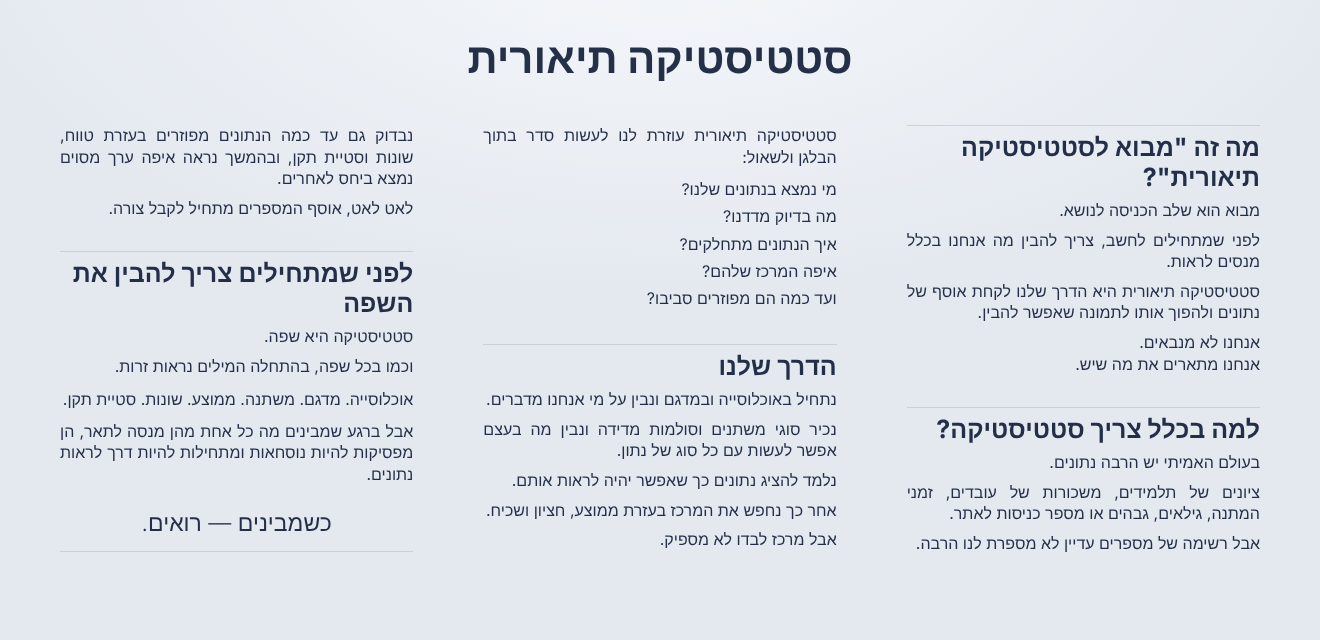
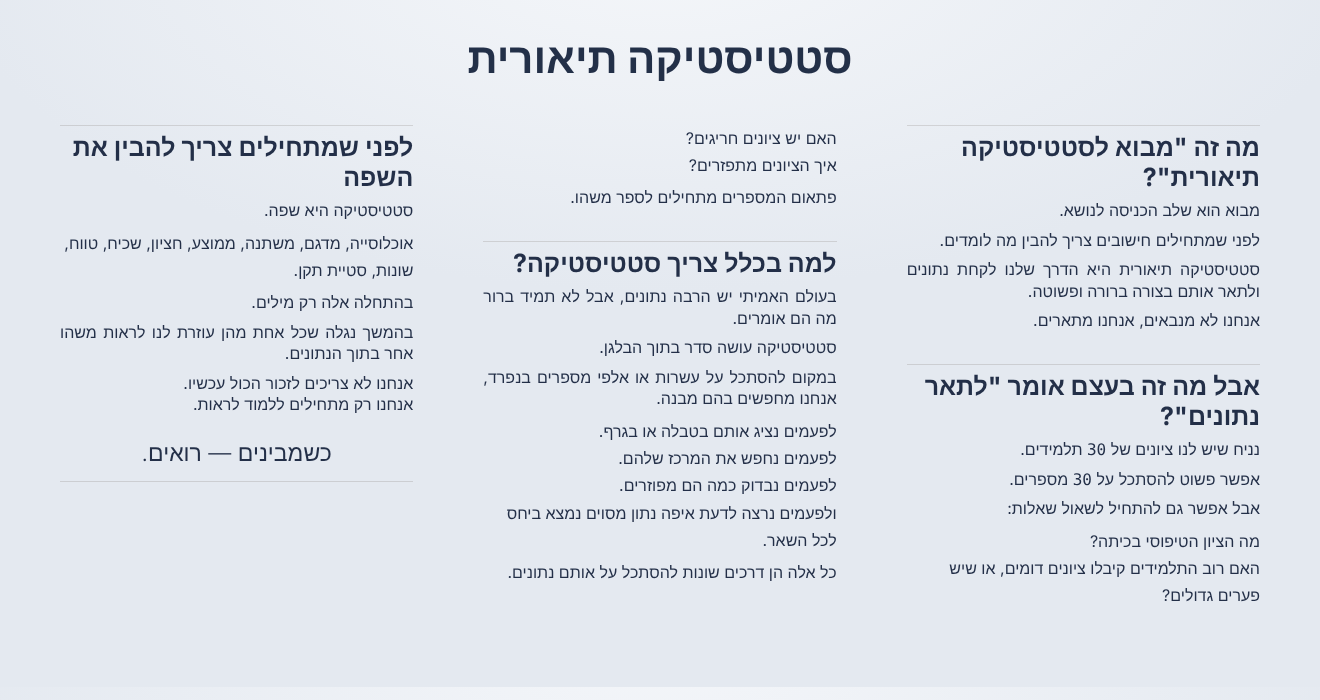
חל

diff --git a/statistika/statistika-introduction.html b/statistika/statistika-introduction.html
@@ -86,7 +86,12 @@ body.learning-mode .do-mark { color: rgba(220,220,220,0.38); }
   to   { opacity: 0.72; transform: translateY(0); }
 }
 
-.final-line { margin-top: 65px; font-size: 23px; }
+.final-line{
+  text-align:center;
+  font-size:23px;
+  font-weight:300;
+  margin-top:22px !important;
+}
 
 .protocol-text-btn {
   display: inline;
@@ -172,6 +177,31 @@ body.learning-mode .route-dark {
   display: block !important;
 }
 
+/* העמוד הזה זורם בשלוש עמודות (כמו עיתון) במקום שלוש עמודות קבועות,
+   כך שהטקסט מתחלק לבד ושלוש העמודות מסתיימות באותו קו. */
+body.overview-page .container.flow {
+  display: block;
+  column-count: 3;
+  column-gap: 70px;
+}
+.container.flow h2 { break-after: avoid; }
+.container.flow p { orphans: 2; widows: 2; }
+.container.flow .section:last-child {
+  border-bottom: 1px solid var(--panel-border);
+  padding-bottom: 12px;
+}
+/* שורות קצרות (רשימת שאלות, רשימת "לפעמים"): בלי יישור לשני הצדדים,
+   ומותר להן להמשיך לעמודה הבאה כדי שהעמודות יישארו מאוזנות */
+.container.flow .questions,
+.container.flow .lines { line-height: 1.7; text-align: right; }
+.container.flow .questions,
+.container.flow .lines { break-inside: auto; }
+.container.flow .questions span,
+.container.flow .lines span { display: inline-block; width: 100%; }
+@media (max-width: 600px) {
+  body.overview-page .container.flow { column-count: 1; }
+}
+
 </style>
 </head>
 
@@ -179,11 +209,10 @@ body.learning-mode .route-dark {
 
 <div class="rain" id="rain"></div>
 
-<h1 class="page-title">סטטיסטיקה תיאורית</h1>
+<h1 class="page-title">מבוא לסטטיסטיקה תיאורית</h1>
 
-<div class="container">
+<div class="container flow">
 
-<div class="col">
   <div class="section">
     <h2>מה זה "מבוא לסטטיסטיקה תיאורית"?</h2>
     <p>מבוא הוא שלב הכניסה לנושא.</p>
@@ -191,23 +220,33 @@ body.learning-mode .route-dark {
     <p>סטטיסטיקה תיאורית היא הדרך שלנו לקחת נתונים ולתאר אותם בצורה ברורה ופשוטה.</p>
     <p>אנחנו לא מנבאים, אנחנו מתארים.</p>
   </div>
-</div>
 
-<div class="col">
+  <div class="section">
+    <h2>אבל מה זה בעצם אומר "לתאר נתונים"?</h2>
+    <p>נניח שיש לנו ציונים של 30 תלמידים.</p>
+    <p>אפשר פשוט להסתכל על 30 מספרים.</p>
+    <p>אבל אפשר גם להתחיל לשאול שאלות:</p>
+    <p class="questions"><span>מה הציון הטיפוסי בכיתה?</span><span>האם רוב התלמידים קיבלו ציונים דומים, או שיש פערים גדולים?</span><span>האם יש ציונים חריגים?</span><span>איך הציונים מתפזרים?</span></p>
+    <p>פתאום המספרים מתחילים לספר משהו.</p>
+  </div>
+
   <div class="section">
     <h2>למה בכלל צריך סטטיסטיקה?</h2>
     <p>בעולם האמיתי יש הרבה נתונים, אבל לא תמיד ברור מה הם אומרים.</p>
     <p>סטטיסטיקה עושה סדר בתוך הבלגן.</p>
+    <p>במקום להסתכל על עשרות או אלפי מספרים בנפרד, אנחנו מחפשים בהם מבנה.</p>
+    <p class="lines"><span>לפעמים נציג אותם בטבלה או בגרף.</span><span>לפעמים נחפש את המרכז שלהם.</span><span>לפעמים נבדוק כמה הם מפוזרים.</span><span>ולפעמים נרצה לדעת איפה נתון מסוים נמצא ביחס לכל השאר.</span></p>
+    <p>כל אלה הן דרכים שונות להסתכל על אותם נתונים.</p>
   </div>
-</div>
 
-<div class="col">
   <div class="section">
     <h2>לפני שמתחילים צריך להבין את השפה</h2>
     <p>סטטיסטיקה היא שפה.</p>
-    <p>כשמבינים — רואים.</p>
+    <p>בהתחלה חלק מהמילים נשמעות זרות.</p>
+    <p>בהמשך נגלה שכל אחת מהן עוזרת לנו לראות משהו אחר בתוך הנתונים.</p>
+    <p>אנחנו לא צריכים לזכור הכול עכשיו.<br>אנחנו רק מתחילים ללמוד לראות.</p>
+    <p class="final-line">כשמבינים — רואים.</p>
   </div>
-</div>
 
 </div>
 
